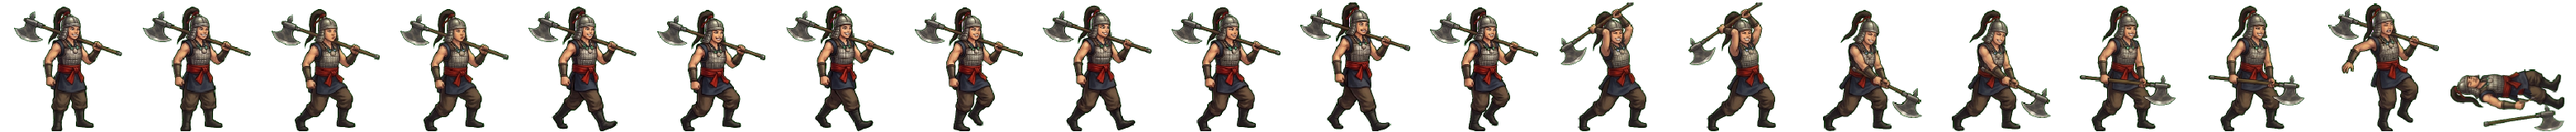
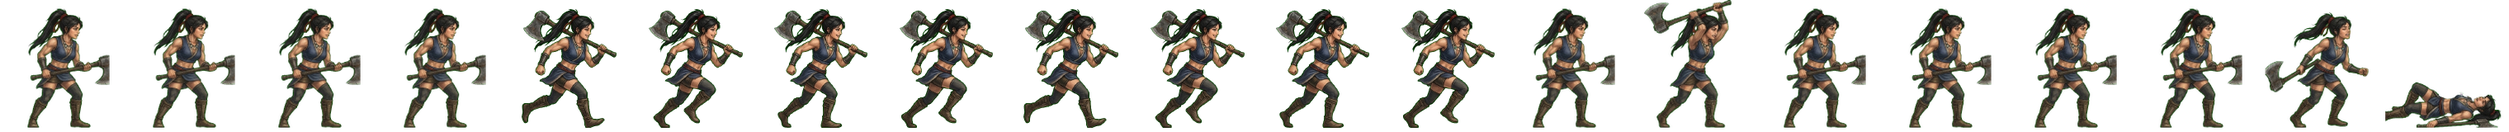
전투 띠 다시: 해비·말갈기 초상대로 · 투구를 벗기고 전투 옷은 더 드러나게 (형 11-08: 「전투 에셋은 더 야하고 섹시해도 돼」)
Claude-Session: https://claude.ai/code/session_01TRiuNAG8xSjdmjCFpc8Rd5

diff --git a/src/realm/data/art.ts b/src/realm/data/art.ts
@@ -488,8 +488,8 @@ export const GEN_ANIM: Readonly<Partial<Record<string, { ar: number; body: numbe
   songyang: { ar: 149 / 160, body: 0.955, bow: true }, // 11-04 제 띠 (u/0 · 깃털 뾰족 고깔 관·희끗한 염소수염·무늬 남색 두루마기·금 드리개 · 모델이 칸 선을 그려 key-png 지울곳으로 걷음)
   maenun: { ar: 146 / 160, body: 0.955, bow: true }, // 11-04 제 띠 (u/0 · 꿩깃 검은 두건·붉은 두루마기·가죽 미늘·맥궁 · 골포국 살해 매눈)
   hyeopbo: { ar: 163 / 160, body: 0.887 }, // 11-04 제 띠 (u/0 · 검은 머리띠 상투·가는 콧수염·무늬 검은 도포·가죽 갑옷 · 곧은 고리자루 칼 — 첫 판은 휜 칼이라 버림)
-  malgalgi: { ar: 157 / 160, body: 0.948 }, // 11-05 밤 제 띠 (제미나이 u/0 자동 모드 · 겨자빛 저고리·가죽 조끼·방울 땋은머리·창 · 칸 선은 key-png 지울곳으로 · 걷기 여덟째는 넷째 · 쓰러짐은 C 장 · 휘두르기 초록 자국은 초록 지우기)
-  haebi: { ar: 156 / 160, body: 0.941 }, // 11-05 밤 제 띠 (제미나이 edu Flash — Pro 붐벼서 · 남색 민소매·붉은 허리띠·큰 도끼 · 첫 판(u/0)은 납작한 벡터 그림체에 맨다리라 버림 · 막기 컷은 도끼가 둘이라 빼고 공격은 3·4·5 · 쓰러짐은 C 우하단 · ✦ 표식은 clean-alpha clone 으로 덮음)
+  malgalgi: { ar: 165 / 160, body: 0.906 }, // 11-08 초상대로 다시 (형: 「투구 쓰고 원본과 다르다」 · 제미나이 걷기 4×2 + 동작 4×2 → 20컷 · assets_src/realm/gemini/generals2) · 전투 옷은 더 드러나게 (형 11-08)
+  haebi: { ar: 152 / 160, body: 0.906 }, // 11-08 초상대로 다시 (형: 「투구 쓰고 원본과 다르다」 · 제미나이 걷기 4×2 + 동작 4×2 → 20컷 · assets_src/realm/gemini/generals2) · 전투 옷은 더 드러나게 (형 11-08)
   soebi: { ar: 156 / 160, body: 0.906 }, // 11-08 초상대로 다시 (형: 「투구 쓰고 원본과 다르다」 · 제미나이 걷기 4×2 + 동작 4×2 → 20컷 · assets_src/realm/gemini/generals2) · 쇠 덩이 묶음 대신 큰 쇠망치
   ara: { ar: 157 / 160, body: 0.906 }, // 11-08 초상대로 다시 (형: 「투구 쓰고 원본과 다르다」 · 제미나이 걷기 4×2 + 동작 4×2 → 20컷 · assets_src/realm/gemini/generals2)
   heo: { ar: 150 / 160, body: 0.941 }, // 11-05 밤 제 띠 (제미나이 edu Flash · 진주·산호 꿴 물결머리·푸른·샛노란 비단 위 미늘·붉은 띠·긴 창 · B 의 서기가 걷는 자세라 C 에서 서기·맞음·쓰러짐 셋을 따로 받아 갈아 끼움 · 휘두르기 초록 자국 지움)

diff --git a/src/ui/realm/battle-strikes.ts b/src/ui/realm/battle-strikes.ts
@@ -140,8 +140,8 @@ const CONTACT: Readonly<Record<string, [number, number, number]>> = {
   'gen-g-spear': [15, .99, .32], 'gen-g-sword': [16, .99, .33], 'gen-w-spear': [14, .98, .56],
   'gen-mount': [15, .98, .22], 'gen-ara': [14, 0.76, 0.94], 'gen-aryeong': [14, .98, .48],
   'gen-daeso': [14, .98, .43], 'gen-eureum': [14, .95, .13], 'gen-gamsil': [14, .92, .69],
-  'gen-haebi': [15, .89, .69], 'gen-heo': [14, .97, .38], 'gen-hyeokgeose': [14, .97, .21],
-  'gen-hyeopbo': [14, .93, .21], 'gen-malgalgi': [14, .97, .41], 'gen-mari': [14, .98, .47],
+  'gen-haebi': [14, 0.87, 0.53], 'gen-heo': [14, .97, .38], 'gen-hyeokgeose': [14, .97, .21],
+  'gen-hyeopbo': [14, .93, .21], 'gen-malgalgi': [14, 0.88, 0.28], 'gen-mari': [14, .98, .47],
   'gen-oi': [14, .98, .48], 'gen-onjo': [15, .98, .33], 'gen-soebi': [14, 0.80, 0.95],
   'gen-soseono': [14, .98, .43],
   'gen-gaennae': [14, 249 / 264, 47 / 160],
